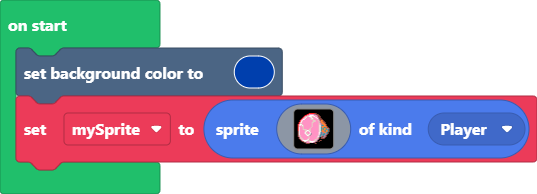
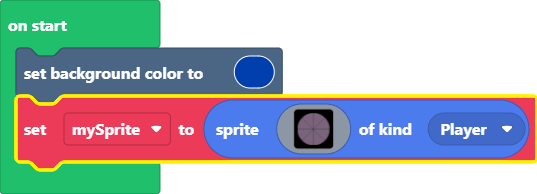
Update pxt.json, main.blocks, main.ts

Changed region(s): [[0.0, 0.4639, 1.0, 0.8969], [0.5363, 0.5567, 0.6257, 0.7732]]

diff --git a/main.ts b/main.ts
@@ -1,35 +1,99 @@
 scene.setBackgroundColor(8)
 let mySprite = sprites.create(img`
-    ...........222222ee.............
-    .........2233333bbeee...........
-    .......2233d1111333bee..........
-    ......23ddd111dd1d33eee.........
-    .....23d1333d1d33d13bee.........
-    ....23d133333d1d33313eee........
-    ...2311333333ddd3333dbeee.......
-    ..2313333333333ddd33d3e44e......
-    ..21d3333333333ddd333db44ee.....
-    .2313333333333dd33333db444ee....
-    .2dd3333333333d333333d3b444e....
-    2311d333333333d333333ddbb444e...
-    2d131d33333333d333333d1b6644e...
-    2d33dd33333333d333333d1b44444e..
-    21333d3333333d3333333d1644664ee.
-    21333d333333d33333333d16b64464be
-    21333dddd33dd33333333d1646446b6e
-    2133333dd11dd33333333d1644b6446e
-    e133333d1d31d33333333d1b4446446e
-    e1333331d3331333333331d6bb44b6e.
-    e1333331dd331b3333333136bb6bb6e.
-    e13333331dd1db33333331b6b66bbe..
-    edd33333311db3333333dd6bb6bbe...
-    e3d3333333d333333333136beebbe...
-    .edd3333333d3333333ddbfeebbe....
-    .e3dd33333dd3333333d3efeeee.....
-    ..e3dd333d1333333dd3bfffff......
-    ...e311111ddd333dddbffeef.......
-    ....eed1d33d111113befeff........
-    ......eeb333dd13beffff..........
-    ........eeeefffffee.............
-    ................................
+    ................................................................................................
+    ......................................bbbbbbbbbcbbbbbbbbb.......................................
+    ..................................bbbbbbbbbbbbbcbbbbbbbbbbbbb...................................
+    ...............................bbbbbbbbbbbbbbbbcbbbbbbbbbbbbbbbb................................
+    ............................bbbbbbbbbbbbbbbbbbbcbbbbbbbbbbbbbbbbbbb.............................
+    ..........................bbbbbbbbbbbbbbbbbbbbbcbbbbbbbbbbbbbbbbbbbbb...........................
+    ........................bbbbbbbbbbbbbbbbbbbbbbbcbbbbbbbbbbbbbbbbbbbbbbb.........................
+    .......................bbbbbbbbbbbbbbbbbbbbbbbbcbbbbbbbbbbbbbbbbbbbbbbbb........................
+    .....................bbbbbbbbbbbbbbbbbbbbbbbbbbcbbbbbbbbbbbbbbbbbbbbbbbbbb......................
+    ....................bbbbbbbbbbbbbbbbbbbbbbbbbbbcbbbbbbbbbbbbbbbbbbbbbbbbbbb.....................
+    ..................bbbbbbbbbbbbbbbbbbbbbbbbbbbbbcbbbbbbbbbbbbbbbbbbbbbbbbbbbbb...................
+    .................bbbbbbbbbbbbbbbbbbbbbbbbbbbbbbcbbbbbbbbbbbbbbbbbbbbbbbbbbbbbb..................
+    ................bbbbbbbbbbbbbbbbbbbbbbbbbbbbbbbcbbbbbbbbbbbbbbbbbbbbbbbbbbbbbbb.................
+    ...............bbbbbbbbbbbbbbbbbbbbbbbbbbbbbbbbcbbbbbbbbbbbbbbbbbbbbbbbbbbbbbbbb................
+    ..............bbbbbbbbbbbbbbbbbbbbbbbbbbbbbbbbbcbbbbbbbbbbbbbbbbbbbbbbbbbbbbbbbbbc..............
+    .............cbbbbbbbbbbbbbbbbbbbbbbbbbbbbbbbbbcbbbbbbbbbbbbbbbbbbbbbbbbbbbbbbbbcb..............
+    ............bbcbbbbbbbbbbbbbbbbbbbbbbbbbbbbbbbbcbbbbbbbbbbbbbbbbbbbbbbbbbbbbbbbcbbb.............
+    ...........bbbbcbbbbbbbbbbbbbbbbbbbbbbbbbbbbbbbcbbbbbbbbbbbbbbbbbbbbbbbbbbbbbbcbbbbb............
+    ..........bbbbbbcbbbbbbbbbbbbbbbbbbbbbbbbbbbbbbcbbbbbbbbbbbbbbbbbbbbbbbbbbbbbcbbbbbbb...........
+    .........bbbbbbbbcbbbbbbbbbbbbbbbbbbbbbbbbbbbbbcbbbbbbbbbbbbbbbbbbbbbbbbbbbbcbbbbbbbbb..........
+    .........bbbbbbbbbcbbbbbbbbbbbbbbbbbbbbbbbbbbbbcbbbbbbbbbbbbbbbbbbbbbbbbbbbcbbbbbbbbbb..........
+    ........bbbbbbbbbbbcbbbbbbbbbbbbbbbbbbbbbbbbbbbcbbbbbbbbbbbbbbbbbbbbbbbbbbcbbbbbbbbbbbb.........
+    .......bbbbbbbbbbbbbcbbbbbbbbbbbbbbbbbbbbbbbbbbcbbbbbbbbbbbbbbbbbbbbbbbbbcbbbbbbbbbbbbbb........
+    .......bbbbbbbbbbbbbbcbbbbbbbbbbbbbbbbbbbbbbbbbcbbbbbbbbbbbbbbbbbbbbbbbbcbbbbbbbbbbbbbbb........
+    ......bbbbbbbbbbbbbbbbcbbbbbbbbbbbbbbbbbbbbbbbbcbbbbbbbbbbbbbbbbbbbbbbbcbbbbbbbbbbbbbbbbb.......
+    .....bbbbbbbbbbbbbbbbbbcbbbbbbbbbbbbbbbbbbbbbbbcbbbbbbbbbbbbbbbbbbbbbbcbbbbbbbbbbbbbbbbbbb......
+    .....bbbbbbbbbbbbbbbbbbbcbbbbbbbbbbbbbbbbbbbbbbcbbbbbbbbbbbbbbbbbbbbbcbbbbbbbbbbbbbbbbbbbb......
+    ....bbbbbbbbbbbbbbbbbbbbbcbbbbbbbbbbbbbbbbbbbbbcbbbbbbbbbbbbbbbbbbbbcbbbbbbbbbbbbbbbbbbbbbb.....
+    ....bbbbbbbbbbbbbbbbbbbbbbcbbbbbbbbbbbbbbbbbbbbcbbbbbbbbbbbbbbbbbbbcbbbbbbbbbbbbbbbbbbbbbbb.....
+    ...bbbbbbbbbbbbbbbbbbbbbbbbcbbbbbbbbbbbbbbbbbbbcbbbbbbbbbbbbbbbbbbcbbbbbbbbbbbbbbbbbbbbbbbbb....
+    ...bbbbbbbbbbbbbbbbbbbbbbbbbcbbbbbbbbbbbbbbbbbbcbbbbbbbbbbbbbbbbbcbbbbbbbbbbbbbbbbbbbbbbbbbb....
+    ...bbbbbbbbbbbbbbbbbbbbbbbbbbcbbbbbbbbbbbbbbbbbcbbbbbbbbbbbbbbbbcbbbbbbbbbbbbbbbbbbbbbbbbbbb....
+    ..bbbbbbbbbbbbbbbbbbbbbbbbbbbbcbbbbbbbbbbbbbbbbcbbbbbbbbbbbbbbbcbbbbbbbbbbbbbbbbbbbbbbbbbbbbb...
+    ..bbbbbbbbbbbbbbbbbbbbbbbbbbbbbcbbbbbbbbbbbbbbbcbbbbbbbbbbbbbbcbbbbbbbbbbbbbbbbbbbbbbbbbbbbbb...
+    ..bbbbbbbbbbbbbbbbbbbbbbbbbbbbbbcbbbbbbbbbbbbbbcbbbbbbbbbbbbbcbbbbbbbbbbbbbbbbbbbbbbbbbbbbbbb...
+    .bbbbbbbbbbbbbbbbbbbbbbbbbbbbbbbbcbbbbbbbbbbbbbcbbbbbbbbbbbbcbbbbbbbbbbbbbbbbbbbbbbbbbbbbbbbbb..
+    .bbbbbbbbbbbbbbbbbbbbbbbbbbbbbbbbbcbbbbbbbbbbbbcbbbbbbbbbbbcbbbbbbbbbbbbbbbbbbbbbbbbbbbbbbbbbb..
+    .bbbbbbbbbbbbbbbbbbbbbbbbbbbbbbbbbbcbbbbbbbbbbbcbbbbbbbbbbcbbbbbbbbbbbbbbbbbbbbbbbbbbbbbbbbbbb..
+    .bbbbbbbbbbbbbbbbbbbbbbbbbbbbbbbbbbbcbbbbbbbbbbcbbbbbbbbbcbbbbbbbbbbbbbbbbbbbbbbbbbbbbbbbbbbbb..
+    bbbbbbbbbbbbbbbbbbbbbbbbbbbbbbbbbbbbbcbbbbbbbbbcbbbbbbbbcbbbbbbbbbbbbbbbbbbbbbbbbbbbbbbbbbbbbbb.
+    bbbbbbbbbbbbbbbbbbbbbbbbbbbbbbbbbbbbbbcbbbbbbbbcbbbbbbbcbbbbbbbbbbbbbbbbbbbbbbbbbbbbbbbbbbbbbbb.
+    bbbbbbbbbbbbbbbbbbbbbbbbbbbbbbbbbbbbbbbcbbbbbbbcbbbbbbcbbbbbbbbbbbbbbbbbbbbbbbbbbbbbbbbbbbbbbbb.
+    bbbbbbbbbbbbbbbbbbbbbbbbbbbbbbbbbbbbbbbbcbbbbbbcbbbbbcbbbbbbbbbbbbbbbbbbbbbbbbbbbbbbbbbbbbbbbbb.
+    bbbbbbbbbbbbbbbbbbbbbbbbbbbbbbbbbbbbbbbbbcbbbbbcbbbbcbbbbbbbbbbbbbbbbbbbbbbbbbbbbbbbbbbbbbbbbbb.
+    bbbbbbbbbbbbbbbbbbbbbbbbbbbbbbbbbbbbbbbbbbcbbbbcbbbcbbbbbbbbbbbbbbbbbbbbbbbbbbbbbbbbbbbbbbbbbbb.
+    bbbbbbbbbbbbbbbbbbbbbbbbbbbbbbbbbbbbbbbbbbbcbbbcbbcbbbbbbbbbbbbbbbbbbbbbbbbbbbbbbbbbbbbbbbbbbbb.
+    bbbbbbbbbbbbbbbbbbbbbbbbbbbbbbbbbbbbbbbbbbbbcbbcbcbbbbbbbbbbbbbbbbbbbbbbbbbbbbbbbbbbbbbbbbbbbbb.
+    bbbbbbbbbbbbbbbbbbbbbbbbbbbbbbbbbbbbbbbbbbbbbccccbbbbbbbbbbbbbbbbbbbbbbbbbbbbbbbbbbbbbbbbbbbbbb.
+    ccccccccccccccccccccccccccccccccccccccccccccccccccccccccccccccccccccccccccccccccccccccccccccccc.
+    bbbbbbbbbbbbbbbbbbbbbbbbbbbbbbbbbbbbbbbbbbbbbccccbbbbbbbbbbbbbbbbbbbbbbbbbbbbbbbbbbbbbbbbbbbbbb.
+    bbbbbbbbbbbbbbbbbbbbbbbbbbbbbbbbbbbbbbbbbbbbbccccbbbbbbbbbbbbbbbbbbbbbbbbbbbbbbbbbbbbbbbbbbbbbb.
+    bbbbbbbbbbbbbbbbbbbbbbbbbbbbbbbbbbbbbbbbbbbbcbbcbcbbbbbbbbbbbbbbbbbbbbbbbbbbbbbbbbbbbbbbbbbbbbb.
+    bbbbbbbbbbbbbbbbbbbbbbbbbbbbbbbbbbbbbbbbbbbcbbbcbbcbbbbbbbbbbbbbbbbbbbbbbbbbbbbbbbbbbbbbbbbbbbb.
+    bbbbbbbbbbbbbbbbbbbbbbbbbbbbbbbbbbbbbbbbbbcbbbbcbbbcbbbbbbbbbbbbbbbbbbbbbbbbbbbbbbbbbbbbbbbbbbb.
+    bbbbbbbbbbbbbbbbbbbbbbbbbbbbbbbbbbbbbbbbbcbbbbbcbbbbcbbbbbbbbbbbbbbbbbbbbbbbbbbbbbbbbbbbbbbbbbb.
+    bbbbbbbbbbbbbbbbbbbbbbbbbbbbbbbbbbbbbbbbcbbbbbbcbbbbbcbbbbbbbbbbbbbbbbbbbbbbbbbbbbbbbbbbbbbbbbb.
+    bbbbbbbbbbbbbbbbbbbbbbbbbbbbbbbbbbbbbbbcbbbbbbbcbbbbbbcbbbbbbbbbbbbbbbbbbbbbbbbbbbbbbbbbbbbbbbb.
+    bbbbbbbbbbbbbbbbbbbbbbbbbbbbbbbbbbbbbbcbbbbbbbbcbbbbbbbcbbbbbbbbbbbbbbbbbbbbbbbbbbbbbbbbbbbbbbb.
+    .bbbbbbbbbbbbbbbbbbbbbbbbbbbbbbbbbbbbcbbbbbbbbbcbbbbbbbbcbbbbbbbbbbbbbbbbbbbbbbbbbbbbbbbbbbbbb..
+    .bbbbbbbbbbbbbbbbbbbbbbbbbbbbbbbbbbbcbbbbbbbbbbcbbbbbbbbbcbbbbbbbbbbbbbbbbbbbbbbbbbbbbbbbbbbbb..
+    .bbbbbbbbbbbbbbbbbbbbbbbbbbbbbbbbbbcbbbbbbbbbbbcbbbbbbbbbbcbbbbbbbbbbbbbbbbbbbbbbbbbbbbbbbbbbb..
+    .bbbbbbbbbbbbbbbbbbbbbbbbbbbbbbbbbcbbbbbbbbbbbbcbbbbbbbbbbbcbbbbbbbbbbbbbbbbbbbbbbbbbbbbbbbbbb..
+    ..bbbbbbbbbbbbbbbbbbbbbbbbbbbbbbbcbbbbbbbbbbbbbcbbbbbbbbbbbbcbbbbbbbbbbbbbbbbbbbbbbbbbbbbbbbb...
+    ..bbbbbbbbbbbbbbbbbbbbbbbbbbbbbbcbbbbbbbbbbbbbbcbbbbbbbbbbbbbcbbbbbbbbbbbbbbbbbbbbbbbbbbbbbbb...
+    ..bbbbbbbbbbbbbbbbbbbbbbbbbbbbbcbbbbbbbbbbbbbbbcbbbbbbbbbbbbbbcbbbbbbbbbbbbbbbbbbbbbbbbbbbbbb...
+    ...bbbbbbbbbbbbbbbbbbbbbbbbbbbcbbbbbbbbbbbbbbbbcbbbbbbbbbbbbbbbcbbbbbbbbbbbbbbbbbbbbbbbbbbbb....
+    ...bbbbbbbbbbbbbbbbbbbbbbbbbbcbbbbbbbbbbbbbbbbbcbbbbbbbbbbbbbbbbcbbbbbbbbbbbbbbbbbbbbbbbbbbb....
+    ...bbbbbbbbbbbbbbbbbbbbbbbbbcbbbbbbbbbbbbbbbbbbcbbbbbbbbbbbbbbbbbcbbbbbbbbbbbbbbbbbbbbbbbbbb....
+    ....bbbbbbbbbbbbbbbbbbbbbbbcbbbbbbbbbbbbbbbbbbbcbbbbbbbbbbbbbbbbbbcbbbbbbbbbbbbbbbbbbbbbbbb.....
+    ....bbbbbbbbbbbbbbbbbbbbbbcbbbbbbbbbbbbbbbbbbbbcbbbbbbbbbbbbbbbbbbbcbbbbbbbbbbbbbbbbbbbbbbb.....
+    .....bbbbbbbbbbbbbbbbbbbbcbbbbbbbbbbbbbbbbbbbbbcbbbbbbbbbbbbbbbbbbbbcbbbbbbbbbbbbbbbbbbbbb......
+    .....bbbbbbbbbbbbbbbbbbbcbbbbbbbbbbbbbbbbbbbbbbcbbbbbbbbbbbbbbbbbbbbbcbbbbbbbbbbbbbbbbbbbb......
+    ......bbbbbbbbbbbbbbbbbcbbbbbbbbbbbbbbbbbbbbbbbcbbbbbbbbbbbbbbbbbbbbbbcbbbbbbbbbbbbbbbbbb.......
+    .......bbbbbbbbbbbbbbbcbbbbbbbbbbbbbbbbbbbbbbbbcbbbbbbbbbbbbbbbbbbbbbbbcbbbbbbbbbbbbbbbb........
+    .......bbbbbbbbbbbbbbcbbbbbbbbbbbbbbbbbbbbbbbbbcbbbbbbbbbbbbbbbbbbbbbbbbcbbbbbbbbbbbbbbb........
+    ........bbbbbbbbbbbbcbbbbbbbbbbbbbbbbbbbbbbbbbbcbbbbbbbbbbbbbbbbbbbbbbbbbcbbbbbbbbbbbbb.........
+    .........bbbbbbbbbbcbbbbbbbbbbbbbbbbbbbbbbbbbbbcbbbbbbbbbbbbbbbbbbbbbbbbbbcbbbbbbbbbbb..........
+    .........bbbbbbbbbcbbbbbbbbbbbbbbbbbbbbbbbbbbbbcbbbbbbbbbbbbbbbbbbbbbbbbbbbcbbbbbbbbbb..........
+    ..........bbbbbbbcbbbbbbbbbbbbbbbbbbbbbbbbbbbbbcbbbbbbbbbbbbbbbbbbbbbbbbbbbbcbbbbbbbb...........
+    ...........bbbbbcbbbbbbbbbbbbbbbbbbbbbbbbbbbbbbcbbbbbbbbbbbbbbbbbbbbbbbbbbbbbcbbbbbb............
+    ............bbbcbbbbbbbbbbbbbbbbbbbbbbbbbbbbbbbcbbbbbbbbbbbbbbbbbbbbbbbbbbbbbbcbbbb.............
+    .............bcbbbbbbbbbbbbbbbbbbbbbbbbbbbbbbbbcbbbbbbbbbbbbbbbbbbbbbbbbbbbbbbbcbbb.............
+    ..............bbbbbbbbbbbbbbbbbbbbbbbbbbbbbbbbbcbbbbbbbbbbbbbbbbbbbbbbbbbbbbbbbbc...............
+    ...............bbbbbbbbbbbbbbbbbbbbbbbbbbbbbbbbcbbbbbbbbbbbbbbbbbbbbbbbbbbbbbbbb................
+    ................bbbbbbbbbbbbbbbbbbbbbbbbbbbbbbbcbbbbbbbbbbbbbbbbbbbbbbbbbbbbbbb.................
+    .................bbbbbbbbbbbbbbbbbbbbbbbbbbbbbbcbbbbbbbbbbbbbbbbbbbbbbbbbbbbbb..................
+    ..................bbbbbbbbbbbbbbbbbbbbbbbbbbbbbcbbbbbbbbbbbbbbbbbbbbbbbbbbbbb...................
+    ....................bbbbbbbbbbbbbbbbbbbbbbbbbbbcbbbbbbbbbbbbbbbbbbbbbbbbbbb.....................
+    .....................bbbbbbbbbbbbbbbbbbbbbbbbbbcbbbbbbbbbbbbbbbbbbbbbbbbbb......................
+    .......................bbbbbbbbbbbbbbbbbbbbbbbbcbbbbbbbbbbbbbbbbbbbbbbbb........................
+    ........................bbbbbbbbbbbbbbbbbbbbbbbcbbbbbbbbbbbbbbbbbbbbbbb.........................
+    ..........................bbbbbbbbbbbbbbbbbbbbbcbbbbbbbbbbbbbbbbbbbbb...........................
+    ............................bbbbbbbbbbbbbbbbbbbcbbbbbbbbbbbbbbbbbbb.............................
+    ...............................bbbbbbbbbbbbbbbbcbbbbbbbbbbbbbbbb................................
+    ..................................bbbbbbbbbbbbbcbbbbbbbbbbbbb...................................
+    ......................................bbbbbbbbbcbbbbbbbbb.......................................
     `, SpriteKind.Player)
